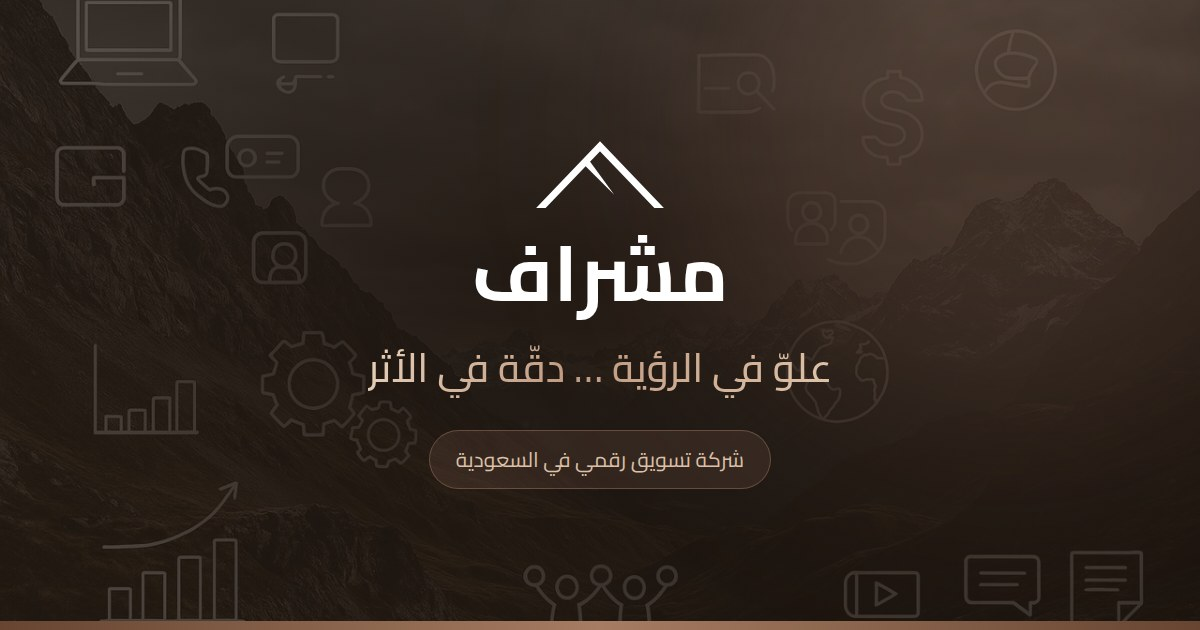
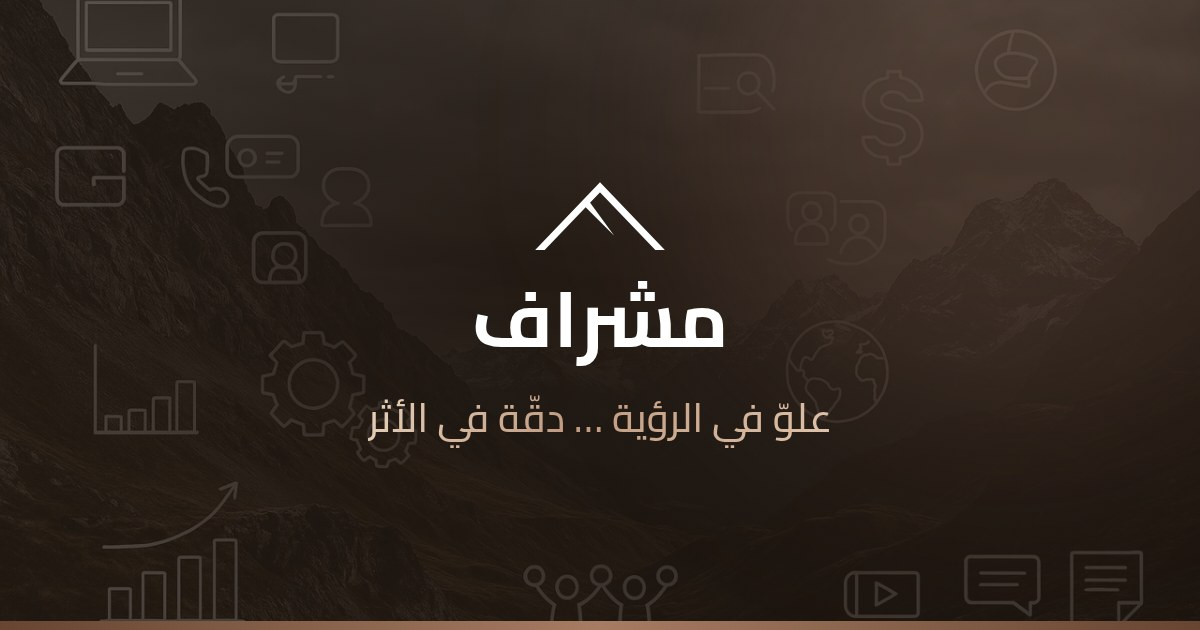
Drop the "شركة تسويق رقمي في السعودية" badge
Remove the eyebrow pill above the hero headline along with its now-unused
styles, shift the reveal delays up to close the gap, and rebuild the
share image without the matching badge.

Left the phrase in the contact paragraph — that is the client's own copy,
not the badge.

Claude-Session: https://claude.ai/code/session_01UDjKvVwCf88VPZhwdhev2p

Changed region(s): [[0.3083, 0.2111, 0.7092, 0.754]]

diff --git a/index.html b/index.html
@@ -87,20 +87,19 @@
   </div>
 
   <div class="container hero-inner">
-    <p class="eyebrow reveal">شركة تسويق رقمي في السعودية</p>
-    <h1 class="hero-title reveal" data-delay="1">
+    <h1 class="hero-title reveal">
       علوّ في الرؤية <span class="dots">…</span> <span class="grad">دقّة في الأثر</span>
     </h1>
-    <p class="hero-text reveal" data-delay="2">
+    <p class="hero-text reveal" data-delay="1">
       مشراف المكان العالي والرؤية البعيدة… نصنع حضورك الرقمي بأعلى المعايير،
       ونوصل علامتك وسط الزحمة بأسلوب يلفت وينجح.
     </p>
-    <div class="hero-actions reveal" data-delay="3">
+    <div class="hero-actions reveal" data-delay="2">
       <a href="#contact" class="btn btn-primary btn-lg">ابدأ الآن!</a>
       <a href="#services" class="btn btn-ghost btn-lg">استعرض خدماتنا</a>
     </div>
 
-    <ul class="hero-stats reveal" data-delay="4">
+    <ul class="hero-stats reveal" data-delay="3">
       <li><strong>8</strong><span>خدمات متكاملة</span></li>
       <li><strong>360°</strong><span>حضور رقمي</span></li>
       <li><strong>24/7</strong><span>متابعة ودعم</span></li>

diff --git a/assets/css/style.css b/assets/css/style.css
@@ -347,18 +347,6 @@ button, input, textarea { font: inherit; color: inherit; }
 
 .hero-inner { position: relative; text-align: center; }
 
-.eyebrow {
-  display: inline-block;
-  padding: 7px 20px;
-  border-radius: 100px;
-  font-size: .84rem;
-  font-weight: 500;
-  color: var(--brand-300);
-  background: rgba(166, 124, 98, .14);
-  border: 1px solid rgba(166, 124, 98, .34);
-  margin-bottom: 26px;
-}
-
 .hero-title {
   font-size: clamp(2.15rem, 6.2vw, 4.1rem);
   font-weight: 700;
